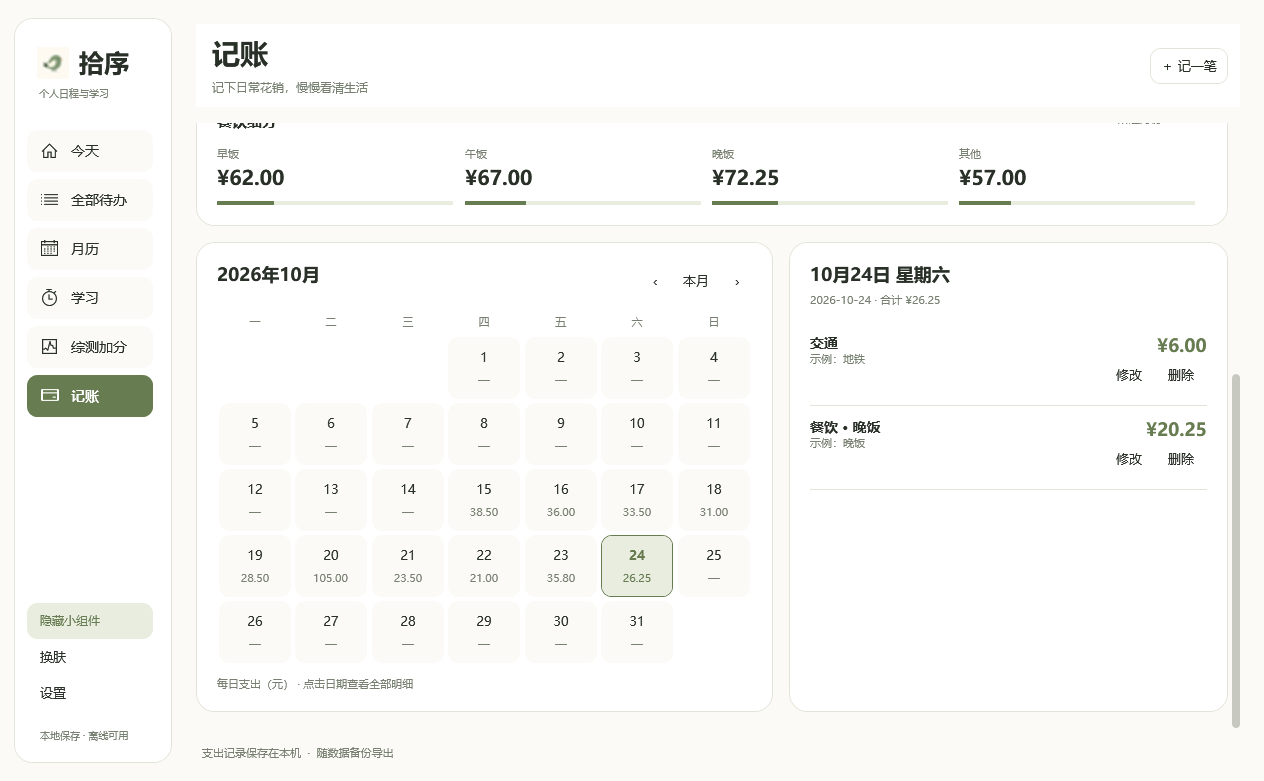
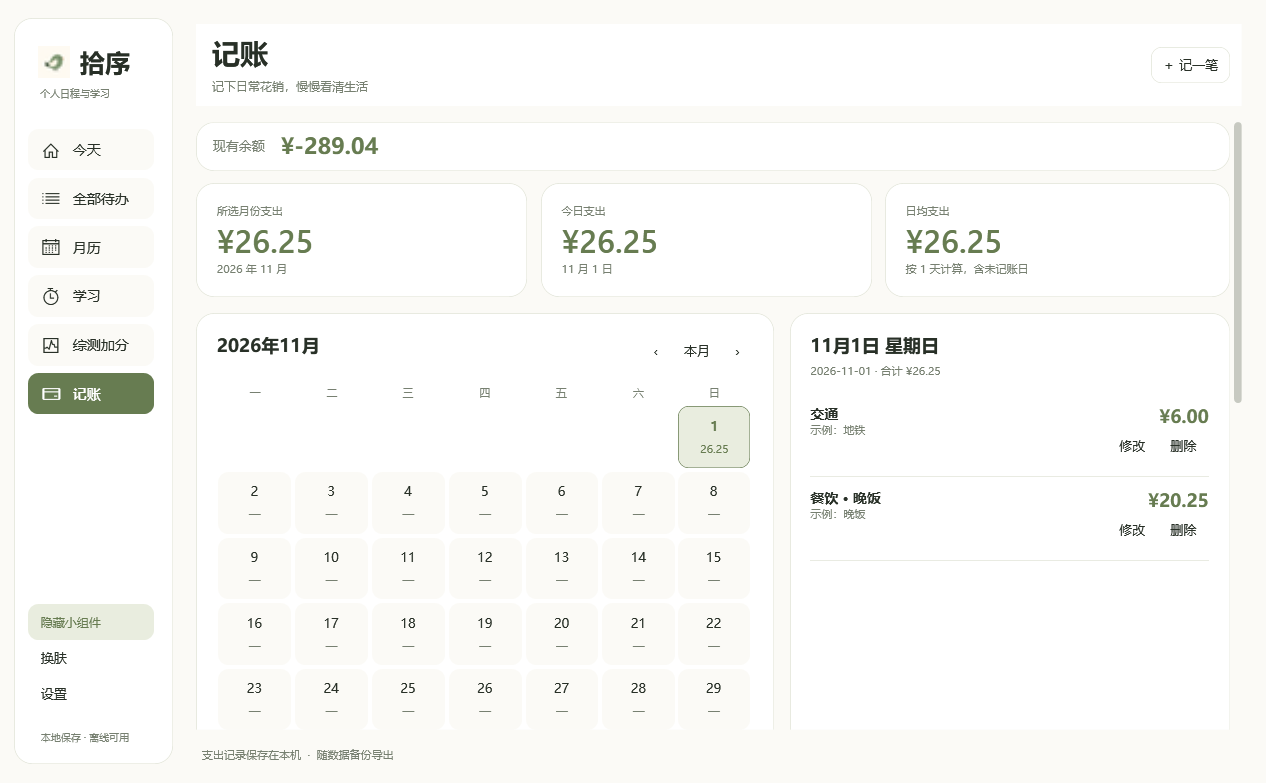
fix: prioritize expense calendar and bills over balance settings

diff --git a/src/Expenses.cs b/src/Expenses.cs
@@ -82,10 +82,13 @@ namespace DeskTodo
         public void Refresh()
         {
             root.Children.Clear(); var all = app.Store.State.Expenses; var summary = ExpenseSummary.Create(all, month, DateTime.Today);
-            var balance = new StackPanel(); balance.Children.Add(Ui.Text("现有余额", 15, "Text", true));
-            var balanceValue = Ui.Text(app.Store.State.ExpenseBalance.HasValue ? Money(app.Store.State.ExpenseBalance.Value) : "尚未设置", 32, "Accent", true);
+            var balanceStrip = new DockPanel { LastChildFill = true };
+            var balanceLabel = Ui.Text("现有余额", 13, "Muted"); balanceLabel.VerticalAlignment = VerticalAlignment.Center; balanceLabel.Margin = new Thickness(0, 0, 16, 0); DockPanel.SetDock(balanceLabel, Dock.Left); balanceStrip.Children.Add(balanceLabel);
+            var balanceValue = Ui.Text(app.Store.State.ExpenseBalance.HasValue ? Money(app.Store.State.ExpenseBalance.Value) : "尚未设置", 22, "Accent", true);
             AutomationProperties.SetName(balanceValue, "现有余额"); balanceValue.ToolTip = balanceValue.Text;
-            balance.Children.Add(new Viewbox { Child = balanceValue, Height = 48, Stretch = Stretch.Uniform, StretchDirection = StretchDirection.DownOnly, HorizontalAlignment = HorizontalAlignment.Left });
+            balanceStrip.Children.Add(new Viewbox { Child = balanceValue, Height = 30, Stretch = Stretch.Uniform, StretchDirection = StretchDirection.DownOnly, HorizontalAlignment = HorizontalAlignment.Left });
+            var balanceBar = Ui.Card(balanceStrip, new Thickness(16, 8, 16, 8)); balanceBar.Margin = new Thickness(0, 0, 0, 12); AutomationProperties.SetName(balanceBar, "余额信息栏"); root.Children.Add(balanceBar);
+            var balance = new StackPanel(); balance.Children.Add(Ui.Text("余额设置", 15, "Text", true));
             balance.Children.Add(Hint("填写当前实际余额，已有账单不重复扣减；之后新增扣减、修改按差额调整、删除返还。"));
             var balanceForm = new DockPanel { Margin = new Thickness(0, 12, 0, 0) };
             var balanceInput = new TextBox { Text = app.Store.State.ExpenseBalance.HasValue ? app.Store.State.ExpenseBalance.Value.ToString("0.00", CultureInfo.InvariantCulture) : "", MaxLength = 20, MinWidth = 120, ToolTip = "输入当前实际余额（元），可输入负数" };
@@ -95,7 +98,7 @@ namespace DeskTodo
                 decimal value;
                 if (!System.Text.RegularExpressions.Regex.IsMatch(balanceInput.Text.Trim(), @"\A-?[0-9]{1,12}(\.[0-9]{1,2})?\z") || !Decimal.TryParse(balanceInput.Text.Trim(), NumberStyles.AllowLeadingSign | NumberStyles.AllowDecimalPoint, CultureInfo.InvariantCulture, out value)) { balanceError.Text = "请输入有效余额，最多两位小数。"; return; }
                 app.SetExpenseBalance(value);
-            }, "Quiet"); DockPanel.SetDock(balanceSave, Dock.Right); balanceForm.Children.Add(balanceSave); balanceForm.Children.Add(balanceInput); balance.Children.Add(balanceForm); balance.Children.Add(balanceError); root.Children.Add(Card(balance));
+            }, "Quiet"); DockPanel.SetDock(balanceSave, Dock.Right); balanceForm.Children.Add(balanceSave); balanceForm.Children.Add(balanceInput); balance.Children.Add(balanceForm); balance.Children.Add(balanceError);
             var overview = new UniformGrid { Columns = 3 };
             var current = Metric("所选月份支出", summary.Total, month.ToString("yyyy 年 M 月")); current.Margin = new Thickness(0, 0, 14, 16); overview.Children.Add(current);
             var today = Metric("今日支出", all.Where(r => r.Date == Dates.Key(DateTime.Today)).Sum(r => r.Amount), DateTime.Today.ToString("M 月 d 日")); today.Margin = new Thickness(0, 0, 14, 16); overview.Children.Add(today);
@@ -150,7 +153,8 @@ namespace DeskTodo
                 var amount = Ui.Text(Money(record.Amount), 18, "Accent", true); amount.HorizontalAlignment = HorizontalAlignment.Right; right.Children.Add(amount); var actions = new StackPanel { Orientation = Orientation.Horizontal }; actions.Children.Add(Ui.Button("修改", () => app.EditExpense(record), "Quiet")); actions.Children.Add(Ui.Button("删除", () => app.DeleteExpense(record), "Quiet")); right.Children.Add(actions);
                 var name = new StackPanel { Margin = new Thickness(0, 0, 10, 0) }; name.Children.Add(Ui.Text(record.Category + (record.Category == "餐饮" ? " · " + (record.Meal ?? "其他") : ""), 14, "Text", true)); var note = Hint(String.IsNullOrEmpty(record.Note) ? "日常支出" : record.Note); note.TextWrapping = TextWrapping.Wrap; name.Children.Add(note); row.Children.Add(name); var line = new Border { Child = row, BorderThickness = new Thickness(0, 0, 0, 1) }; line.SetResourceReference(Border.BorderBrushProperty, "Line"); details.Children.Add(line);
             }
-            root.Children.Add(Columns(Card(calendar), Card(details), 1.35, summary.ByDay.Values.Any(value => value >= 1000000m)));
+            root.Children.Insert(2, compact ? Columns(Card(details), Card(calendar)) : Columns(Card(calendar), Card(details), 1.35, summary.ByDay.Values.Any(value => value >= 1000000m)));
+            root.Children.Add(Card(balance));
         }
         internal static Brush CategoryBrush(int index) { return Color(index); }
     }

diff --git a/src/UiSmoke.cs b/src/UiSmoke.cs
@@ -328,6 +328,13 @@ namespace DeskTodo
                 app.Main.SelectPage("记账"); app.Main.UpdateLayout();
                 Check(Controls<TextBlock>(app.Main).Any(t => t.Text == "这个月还没有支出记录"), "expense empty state");
                 Check(Controls<TextBlock>(app.Main).Any(t => t.Text == "尚未设置"), "balance starts unset");
+                var balanceStrip = Controls<Border>(app.Main).FirstOrDefault(b => AutomationProperties.GetName(b) == "余额信息栏");
+                Check(balanceStrip != null && balanceStrip.ActualHeight <= 64, "balance stays in compact information strip");
+                var layoutCalendar = Controls<UniformGrid>(app.Main).First(g => AutomationProperties.GetName(g) == "支出月历");
+                var layoutTrend = Controls<ExpenseChart>(app.Main).First(c => AutomationProperties.GetName(c).StartsWith("每日支出趋势图"));
+                var layoutSettings = Controls<Button>(app.Main).First(b => (b.Content as string) == "设置余额");
+                Check(layoutCalendar.TranslatePoint(new Point(), app.Main).Y < layoutTrend.TranslatePoint(new Point(), app.Main).Y, "calendar and bills come before statistics charts");
+                Check(layoutSettings.TranslatePoint(new Point(), app.Main).Y > layoutTrend.TranslatePoint(new Point(), app.Main).Y, "balance settings stay below expense content");
                 var balanceInput = Controls<TextBox>(app.Main).First(t => AutomationProperties.GetName(t) == "设置现有余额（元）");
                 balanceInput.Text = "1.001"; Controls<Button>(app.Main).First(b => (b.Content as string) == "设置余额").RaiseEvent(new RoutedEventArgs(Button.ClickEvent));
                 Check(!app.Store.State.ExpenseBalance.HasValue, "invalid balance leaves data unset");
@@ -426,6 +433,7 @@ namespace DeskTodo
                 Check(Controls<ExpenseChart>(app.Main).Any(c => AutomationProperties.GetName(c).StartsWith("每日支出趋势图") && AutomationProperties.GetName(c).Contains(Dates.Key(new DateTime(DateTime.Today.Year, DateTime.Today.Month, DateTime.DaysInMonth(DateTime.Today.Year, DateTime.Today.Month))))), "whole month trend includes last day");
                 Controls<Button>(app.Main).First(b => (b.Content as string) == "近 7 天").RaiseEvent(new RoutedEventArgs(Button.ClickEvent));
                 DateTime sixWeekMonth = new DateTime(DateTime.Today.Year, DateTime.Today.Month, 1);
+                Controls<Button>(app.Main).First(b => AutomationProperties.GetName(b) == "账单下个月").RaiseEvent(new RoutedEventArgs(Button.ClickEvent)); sixWeekMonth = sixWeekMonth.AddMonths(1); app.Main.UpdateLayout();
                 for (int n = 0; n < 12; n++)
                 {
                     int calendarCells = (((((int)sixWeekMonth.DayOfWeek + 6) % 7) + DateTime.DaysInMonth(sixWeekMonth.Year, sixWeekMonth.Month) + 6) / 7) * 7;
@@ -445,12 +453,14 @@ namespace DeskTodo
                 {
                     app.ChangeTheme(theme); app.Main.UpdateLayout(); Capture(app.Main, Path.Combine(root, "expenses-" + theme + ".png"));
                     Check(Controls<TextBlock>(app.Main).Any(t => t.Text == "¥26.25"), "expenses render " + theme);
-                    var expensePanel = Controls<ExpensePanel>(app.Main).First(); expensePanel.ScrollToEnd(); app.Main.UpdateLayout();
+                    var expensePanel = Controls<ExpensePanel>(app.Main).First(); expensePanel.ScrollToTop(); app.Main.UpdateLayout();
                     var selectedButton = Controls<Button>(app.Main).First(b => AutomationProperties.GetName(b) == "支出日期 " + Dates.Key(DateTime.Today));
                     Check(selectedButton.ActualWidth > 0 && selectedButton.ActualHeight > 0, "calendar usable " + theme); Capture(app.Main, Path.Combine(root, "expense-calendar-" + theme + ".png")); expensePanel.ScrollToTop();
                 }
                 app.Main.Width = 960; app.Main.Height = 650; app.Main.UpdateLayout(); Capture(app.Main, Path.Combine(root, "expenses-small.png"));
                 Check(Controls<Button>(app.Main).Where(b => AutomationProperties.GetName(b).StartsWith("导航 ")).Count() == 6, "all six navigation entries at minimum size");
+                var smallBill = Controls<TextBlock>(app.Main).First(t => t.Text == "示例：地铁");
+                Check(smallBill.TranslatePoint(new Point(), app.Main).Y < app.Main.ActualHeight - 80, "selected bills visible without scrolling at minimum size");
                 var smallPanel = Controls<ExpensePanel>(app.Main).First(); smallPanel.ScrollToEnd(); app.Main.UpdateLayout(); Capture(app.Main, Path.Combine(root, "expense-calendar-small.png")); Check(smallPanel.ScrollableHeight > 0, "minimum window scrolls to calendar and details");
                 Controls<Button>(app.Main).First(b => (b.Content as string) == "删除").RaiseEvent(new RoutedEventArgs(Button.ClickEvent));
                 Check(app.Store.State.Expenses.Count == beforeDelete - 1 && !app.Store.State.Expenses.Any(e => e.Note == "示例：地铁"), "delete selected expense");

diff --git a/src/App.cs b/src/App.cs
@@ -16,7 +16,7 @@ using Forms = System.Windows.Forms;
 
 [assembly: AssemblyTitle("拾序")]
 [assembly: AssemblyProduct("拾序 · 桌面待办")]
-[assembly: AssemblyVersion("2.10.0.0")]
+[assembly: AssemblyVersion("2.10.1.0")]
 
 namespace DeskTodo
 {

diff --git a/docs/开发交接.md b/docs/开发交接.md
@@ -1,15 +1,17 @@
 # 拾序开发交接
 
+v2.10.1：记账采用月历并排布局，顶部仅一行余额；月份统计下方优先展示左侧月历和右侧所选日账单，趋势、分类及餐饮统计随后，余额设置移至底部。窄窗口先显示当天账单、再显示月历，记一笔入口保持页头。数据格式v11及扣款逻辑不变。65项记账界面检查通过，未重跑核心或其他界面专项。
+
 v2.10.0：TodoState.ExpenseBalanceBase 保存余额基准；当前余额=基准减全部账单总额，设置时基准=输入余额加现有总额。Copy和控制器Import均保留该字段。记账页顶部新增现有余额，首次填写当前实际金额，已有账单不重复扣款。之后新增支出自动扣减，修改按差额调整，删除返还；支持负余额和再次校正。余额随备份、导入替换及迁移保留。数据格式升级v11，兼容读取v1-v10，v2.9.1及更早版本不能读取v11，回退请使用升级前备份。193项核心及61项记账界面检查通过，未重跑其他界面专项或多DPI。
 
-更新时间：2026-10-31。本文整理长期状态供新对话接手；具体版本和实现以当前源码、README 与 Git 为准。
+更新时间：2026-11-01。本文整理长期状态供新对话接手；具体版本和实现以当前源码、README 与 Git 为准。
 
 ## 当前交付
 
-- 当前应用为 **v2.10.0**，程序集版本 `2.10.0.0`。
+- 当前应用为 **v2.10.1**，程序集版本 `2.10.1.0`。
 - 数据格式为 **v11**，兼容读取旧格式；v2.9.1 及更早的软件不能读取 v11，回退时要使用对应旧备份。
 - 仓库公开：<https://github.com/XiongWen04/shixu>。
-- 应用 Release：<https://github.com/XiongWen04/shixu/releases/tag/v2.10.0>。
+- 应用 Release：<https://github.com/XiongWen04/shixu/releases/tag/v2.10.1>。
 - v2.2.3 将图标更换为用户选定的 B 版绿色小鸟，纸页造型翅膀，保留米白底原稿（透明抠图出现鸟身透底，未采用）。`src/AppLogo.png` 为源图，`src/App.ico` 包含 16–256 像素的十种尺寸，沿用程序、窗口和托盘的现有资源入口；功能和数据格式不变。
 
 v2.9.1 综测页补齐「全部记录 / 返回月历」切换：`CreditPanel.ShowingAllRecords` 保留视图状态，全部记录直接读取所有月份，日期倒序、同日后录入在前，显示名称/日期/来源/完整分数/修改删除。修改删除刷新后保持列表视图，返回月历保留原选日；列表中新增默认今天。仅改页面和入口，Core与数据格式v10不变。

diff --git a/docs/使用说明.md b/docs/使用说明.md
@@ -1,5 +1,7 @@
 # 拾序使用说明
 
+v2.10.1：记账采用月历并排布局，顶部仅一行余额；月份统计下方优先展示左侧月历和右侧所选日账单，趋势、分类及餐饮统计随后，余额设置移至底部。窄窗口先显示当天账单、再显示月历，记一笔入口保持页头。数据格式v11及扣款逻辑不变。65项记账界面检查通过，未重跑核心或其他界面专项。
+
 v2.10.0：记账页顶部新增现有余额，首次填写当前实际金额，已有账单不重复扣款。之后新增支出自动扣减，修改按差额调整，删除返还；支持负余额和再次校正。余额随备份、导入替换及迁移保留。数据格式升级v11，兼容读取v1-v10，v2.9.1及更早版本不能读取v11，回退请使用升级前备份。193项核心及61项记账界面检查通过，未重跑其他界面专项或多DPI。
 
 v2.9.1：综测页右上角新增「全部记录」，按活动日期倒序显示所有月份的加分记录，可直接修改、删除；点击「返回月历」保留原先选中的日期。全部记录视图中新增默认今天，月历视图中仍跟随所选日。数据格式保持v10。
